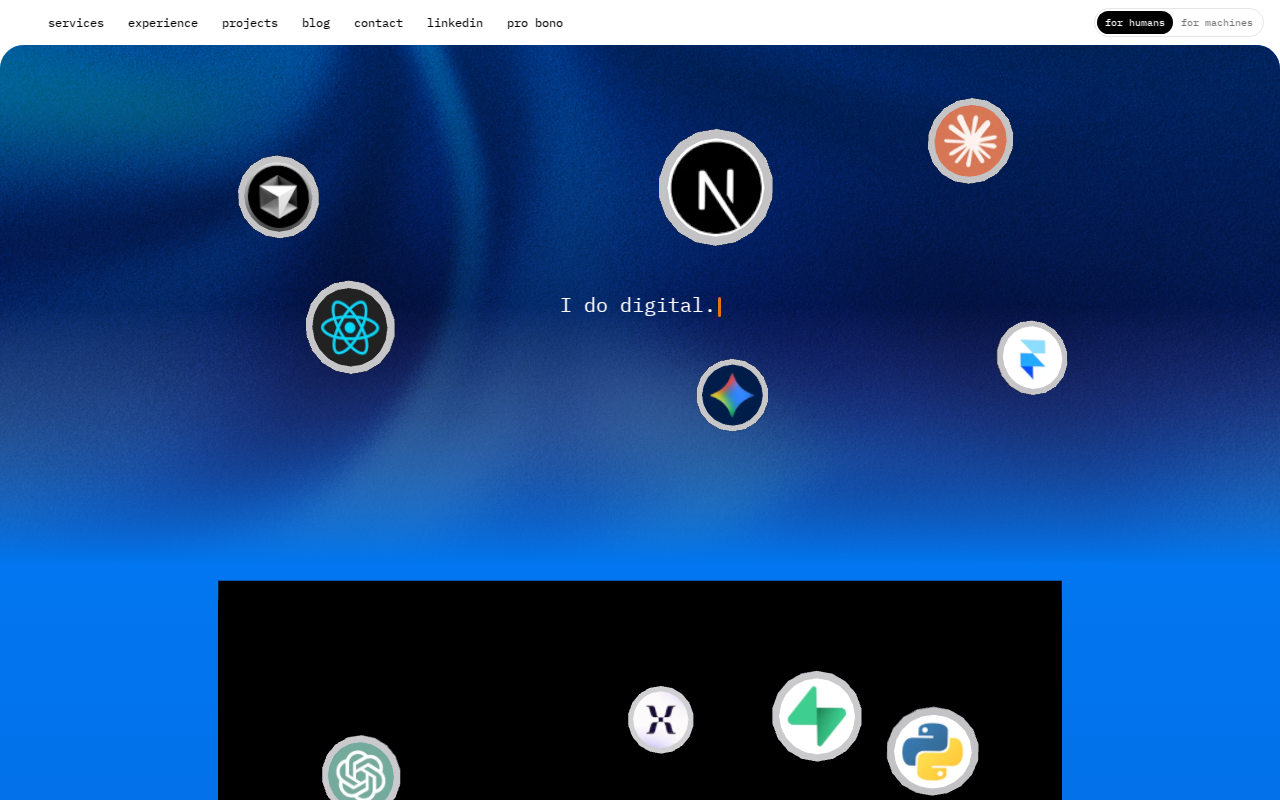
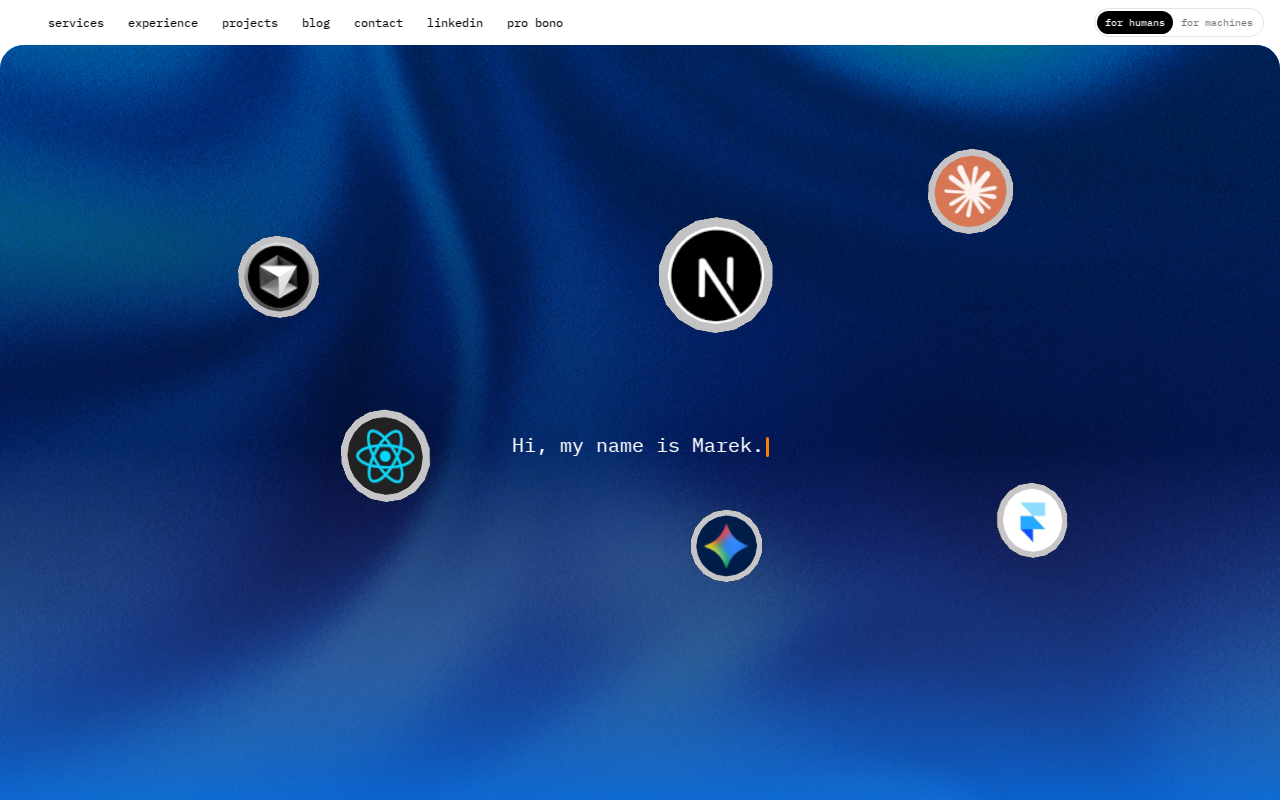
fix(hero): mouth-pack lip sync, true idle, stretch, hide mid typewriter
- Mouth pack (Claude/React/Gemini): travel sync + lip Y snap at MOUTH_TRAVEL_CENTER
- Stronger lip stretch/squash + foreshorten; remeasure during mouth window
- Hero min-h 100svh + capture-idle session for true idle artifact (box off-screen)
- Hide/pause typewriter on scroll to kill mid-frame orphan cursor fragments
- Inner-only inset box-shadow on services card (no exterior glow line)
- Refresh critic artifacts with layout-based capture + box-off-screen assert

diff --git a/components/sections/CircleFieldThree.tsx b/components/sections/CircleFieldThree.tsx
@@ -315,17 +315,32 @@ export default function CircleFieldThree({
         const settle = c.origin === "box" ? 1 : 1 + (1 - dockEase) * 0.05;
         const screenR = (CIRCLE_LOGOS[i].size * scale * sizeMul * settle) / 2;
 
-        // --- MOUTH: a chip straddling the box top dips behind the rim occluder
-        //     (which lives just behind z=0, so settled/hero chips never clip) and
-        //     squashes vertically as it squeezes through the lip. Position-based,
-        //     so it only affects chips actually crossing — never stuck behind. ---
-        // Wide straddle band so 2–3 chips can half-clip at the lip mid-handoff.
-        const dCross = pose.y - boxTopLocalY; // + = below the box top
+        const inMouth =
+          c.origin === "hero" &&
+          c.mouthPack &&
+          tv > 0.16 &&
+          tv < 0.62;
+
+        // --- depth-scaled scroll differential (near leads the dock, far lags) ---
+        const lead =
+          c.origin === "box" || inMouth
+            ? 0
+            : (nearF - 0.5) * 34 * gauss(tv, 0.5, 0.2);
+
+        // --- MOUTH: a chip straddling the box top dips behind the rim occluder ---
+        const lipOverlayY =
+          inMouth && c.mouthPack
+            ? boxTopLocalY + (c.mouthSlot ?? 0) * band.bandH * 0.032
+            : pose.y;
+        const anchorY = lipOverlayY + lead;
+        const dCross = anchorY - boxTopLocalY; // + = below the box top
+        const lipBand = inMouth ? 1.35 : 1.2;
         const straddle =
           c.origin === "hero"
-            ? sstep(-screenR * 1.15, -screenR * 0.08, dCross) *
-              (1 - sstep(screenR * 0.08, screenR * 1.15, dCross))
+            ? sstep(-screenR * lipBand, -screenR * 0.04, dCross) *
+              (1 - sstep(screenR * 0.04, screenR * lipBand, dCross))
             : 0;
+        const stretch = straddle * straddle * (3 - 2 * straddle);
 
         // Depth: sort offset kept >= 0 so nothing but a straddling chip is ever
         // behind the occluder; near tier sits in front for correct overlaps.
@@ -335,19 +350,16 @@ export default function CircleFieldThree({
         const zOrbit = c.origin === "hero" ? (1 - dockEase) * (zHero - zSort) : 0;
         let zc = zSort + zOrbit;
         zc += Math.sin(frameTime * 0.0004 * (0.55 + nearF) + c.phase) * 7 * nearF * idle;
-        zc -= 130 * straddle; // dip behind the rim
-
-        // --- depth-scaled scroll differential (near leads the dock, far lags) ---
-        const lead = c.origin === "box" ? 0 : (nearF - 0.5) * 34 * gauss(tv, 0.5, 0.2);
+        zc -= 130 * stretch; // dip behind the rim
 
         // --- screen anchor (overlay-local px -> world, y-up) + idle parallax ---
         const idleT = frameTime * (0.55 + nearF * 0.9); // far drifts slower
-        const parAmp = (0.45 + nearF) * 5.2 * idle;
+        const parAmp = inMouth ? 0 : (0.45 + nearF) * 5.2 * idle;
         const worldScreenX =
           pose.x + Math.sin(idleT * (c.fx ?? 0.0005) + (c.spinPhase ?? 0)) * parAmp;
         const worldScreenY =
           canvasH -
-          (pose.y +
+          (lipOverlayY +
             offY +
             lead +
             Math.cos(idleT * (c.fy ?? 0.0005) + (c.spinPhase ?? 0)) * parAmp * 0.7);
@@ -360,18 +372,20 @@ export default function CircleFieldThree({
 
         coin.group.visible = apEase > 0.01;
         coin.group.position.set(worldX, worldY, zc);
-        // Squash through the lip: pinch vertically, bulge slightly wide.
+        // Stretch through the lip: vertical squash, slight width bulge, z foreshorten.
+        const stretchGain = inMouth ? 1.2 : 1;
         coin.group.scale.set(
-          Math.max(0.0001, worldR * (1 + 0.14 * straddle)),
-          Math.max(0.0001, worldR * (1 - 0.34 * straddle)),
-          Math.max(0.0001, worldR),
+          Math.max(0.0001, worldR * (1 + 0.22 * stretch * stretchGain)),
+          Math.max(0.0001, worldR * (1 - 0.52 * stretch * stretchGain)),
+          Math.max(0.0001, worldR * (1 - 0.2 * stretch * stretchGain)),
         );
 
-        // --- tilt + depth-scaled idle micro-yaw + a gentle lean while docking ---
-        const tipIn = c.origin === "box" ? 0 : gauss(tv, 0.5, 0.24) * 0.26;
+        // --- tilt + depth-scaled idle micro-yaw + lip foreshorten lean ---
+        const tipIn = c.origin === "box" || inMouth ? 0 : gauss(tv, 0.5, 0.24) * 0.26;
         coin.group.rotation.x =
           (c.tiltX ?? 0) +
           tipIn +
+          stretch * 0.55 * stretchGain +
           Math.sin(idleT * 0.0006 + (c.spinPhase ?? 0)) * 0.05 * (0.4 + nearF) * idle;
         coin.group.rotation.y =
           (c.tiltY ?? 0) +
@@ -722,6 +736,8 @@ export default function CircleFieldThree({
         ease: "easeOut",
       });
     }
+    // Refresh landing band during the mouth window so lip straddles stay pixel-locked.
+    if (value > 0.12 && value < 0.68) remeasure();
     if (reducedRef.current) {
       if (visibleRef.current) renderStatic(true);
     } else if (visibleRef.current) {

diff --git a/components/sections/Hero.tsx b/components/sections/Hero.tsx
@@ -9,7 +9,7 @@ const TEXTS = [
   "I know some neat ops tricks I can share.",
   "Sometimes, I write code.",
   "Or, nowdays instruct agents.",
-  "I’ll do my best to make your company better.",
+  "I'll do my best to make your company better.",
   "I also like chess.",
   "If you wanna play.",
 ];
@@ -17,15 +17,44 @@ const TEXTS = [
 const TYPING_SPEED = 55;
 const ERASING_SPEED = 30;
 const HOLD_DURATION = 2500;
+/** Hide headline once the services mouth enters view — kills mid-scroll typewriter chrome. */
+const HEADLINE_HIDE_SCROLL_PX = 48;
+const CAPTURE_IDLE_KEY = "hero-capture-idle";
+
+function readCaptureIdle() {
+  if (typeof sessionStorage === "undefined") return false;
+  return sessionStorage.getItem(CAPTURE_IDLE_KEY) === "1";
+}
 
 export default function Hero() {
+  const [captureIdle] = useState(readCaptureIdle);
   const [index, setIndex] = useState(0);
-  const [text, setText] = useState("");
-  const [phase, setPhase] = useState<"typing" | "holding" | "erasing">(
-    "typing",
+  const [text, setText] = useState(() => (readCaptureIdle() ? TEXTS[0] : ""));
+  const [phase, setPhase] = useState<"typing" | "holding" | "erasing">(() =>
+    readCaptureIdle() ? "holding" : "typing",
   );
+  const [headlineVisible, setHeadlineVisible] = useState(true);
+  const [typingPaused, setTypingPaused] = useState(false);
 
   useEffect(() => {
+    const onScroll = () => {
+      const hide = window.scrollY > HEADLINE_HIDE_SCROLL_PX;
+      setHeadlineVisible(!hide);
+      setTypingPaused(hide);
+      if (hide) {
+        setText(TEXTS[0]);
+        setIndex(0);
+        setPhase("holding");
+      }
+    };
+    window.addEventListener("scroll", onScroll, { passive: true });
+    return () => window.removeEventListener("scroll", onScroll);
+  }, []);
+
+  useEffect(() => {
+    if (captureIdle) return;
+    if (typingPaused) return;
+
     const current = TEXTS[index];
 
     if (phase === "typing") {
@@ -56,12 +85,12 @@ export default function Hero() {
       setText(current.slice(0, text.length - 1));
     }, ERASING_SPEED);
     return () => clearTimeout(timer);
-  }, [text, phase, index]);
+  }, [text, phase, index, typingPaused, captureIdle]);
 
   return (
     <section
       id="hero"
-      className="relative flex h-[65vh] overflow-hidden rounded-t-3xl"
+      className="relative flex min-h-[100svh] overflow-hidden rounded-t-3xl"
     >
       <div
         aria-hidden
@@ -83,13 +112,19 @@ export default function Hero() {
           WebkitMaskImage: "linear-gradient(to bottom, black 50%, transparent 100%)",
         }}
       />
-      <div className="relative flex w-full items-center justify-center px-6">
-        <h2 className="mx-auto max-w-[16rem] text-balance text-center font-mono text-lg leading-snug text-white sm:max-w-xs sm:text-xl md:max-w-md md:text-xl">
+      <div className="relative flex w-full flex-1 items-center justify-center px-6">
+        <h2
+          className={`mx-auto max-w-[16rem] text-balance text-center font-mono text-lg leading-snug text-white transition-opacity duration-300 sm:max-w-xs sm:text-xl md:max-w-md md:text-xl ${
+            headlineVisible ? "opacity-100" : "pointer-events-none opacity-0"
+          }`}
+        >
           {text}
-          <span
-            className="ml-0.5 inline-block h-[1em] w-[3px] animate-pulse rounded-full align-middle"
-            style={{ backgroundColor: "#FF8008" }}
-          />
+          {headlineVisible ? (
+            <span
+              className="ml-0.5 inline-block h-[1em] w-[3px] animate-pulse rounded-full align-middle"
+              style={{ backgroundColor: "#FF8008" }}
+            />
+          ) : null}
         </h2>
       </div>
     </section>

diff --git a/components/sections/placeCircles.ts b/components/sections/placeCircles.ts
@@ -1,4 +1,5 @@
 import { clamp01, smoothstep } from "@/lib/math";
+import { MOUTH_TRAVEL_CENTER } from "./serviceReveal";
 import {
   boxBandFromMargin,
   pathEndpointLocal,
@@ -24,6 +25,10 @@ export type CircleModel = {
   tiltY?: number;
   /** Idle micro-yaw phase — 3D renderer only. */
   spinPhase?: number;
+  /** When true, travel is synced so this chip crosses the box lip at MOUTH_TRAVEL_CENTER. */
+  mouthPack?: boolean;
+  /** Small vertical stagger (-1..1) so 2–3 mouth chips half-clip simultaneously. */
+  mouthSlot?: number;
 };
 
 export type CirclePose = {
@@ -132,8 +137,28 @@ export function placeCircles({
       toPxY = bandTop + c.toY * bandH;
     }
 
-    let baseX = lerp(fromPxX, toPxX, p);
-    let baseY = lerp(fromPxY, toPxY, p);
+    let coinP = p;
+    const mouthBlend =
+      c.origin === "hero" && c.mouthPack
+        ? Math.exp(-0.5 * Math.pow((p - MOUTH_TRAVEL_CENTER) / 0.075, 2))
+        : 0;
+
+    if (c.origin === "hero" && c.mouthPack && mouthBlend > 0.02) {
+      const deltaY = toPxY - fromPxY;
+      if (Math.abs(deltaY) > 4) {
+        const lipTravel = clamp01((bandTop - fromPxY) / deltaY);
+        coinP = clamp01(p + (lipTravel - p) * Math.min(1, mouthBlend * 1.05));
+      }
+    }
+
+    let baseX = lerp(fromPxX, toPxX, coinP);
+    let baseY = lerp(fromPxY, toPxY, coinP);
+
+    // Snap mouth-pack chips to the lip together (2–3 simultaneous half-clips).
+    if (c.origin === "hero" && c.mouthPack && mouthBlend > 0.02) {
+      const lipY = bandTop + (c.mouthSlot ?? 0) * Math.max(24, bandH * 0.032);
+      baseY = lerp(baseY, lipY, Math.min(1, mouthBlend * 1.12));
+    }
 
     let isPathCircle = false;
 
@@ -163,8 +188,8 @@ export function placeCircles({
     // Padded clear zone around the hero headline: push hero coins out of an
     // elliptical hole around "Hi, my name is Marek" so they never sit on type.
     // Applies while the coin is still substantially in the hero (p small), and
-    // eases out as it docks so it doesn't fight the scrub.
-    if (c.origin === "hero" && p < 0.5) {
+    // eases out as it docks so it doesn't fight the scrub. Skip mouth-pack chips.
+    if (c.origin === "hero" && p < 0.5 && !c.mouthPack) {
       const zoneGain = 1 - smoothstep(p / 0.5);
       const textCx = heroW * 0.5;
       const textCy = isDesktop

diff --git a/components/sections/serviceReveal.ts b/components/sections/serviceReveal.ts
@@ -39,10 +39,13 @@ export function spreadMarginPx(progress: number, width: number): number {
 
 // Hero-circle travel, scrubbed across a WIDE window with smoothstep easing so
 // the hero→box handoff feels continuous (not a teleport). Logos begin gliding
-// as the box starts spreading (~0.26) and are fully gathered by ~0.55, hold
-// through the full-bleed section, then rise back out as the box narrows.
-export const CIRCLE_TRAVEL_BREAKPOINTS = [0, 0.26, 0.55, 0.8, 0.95, 1] as const;
+// as the box starts spreading (~0.28) and finish docking by ~0.58. The mouth
+// snapshot (2–3 chips straddling the lip) peaks near MOUTH_TRAVEL_CENTER.
+export const CIRCLE_TRAVEL_BREAKPOINTS = [0, 0.28, 0.58, 0.8, 0.95, 1] as const;
 export const CIRCLE_TRAVEL_VALUES = [0, 0, 1, 1, 0, 0] as const;
+
+/** Services scroll progress where the mouth snapshot is taken (artifact script). */
+export const MOUTH_SCROLL_CENTER = 0.39;
 
 // The scroll offset both Services and CircleField MUST pass to useScroll for the
 // breakpoints above to mean the same thing in both. Shared here so the whole
@@ -70,3 +73,10 @@ export function interpolateProgress(
 
   return values[last];
 }
+
+/** Circle travel (`placeCircles` `travel` arg) at MOUTH_SCROLL_CENTER — keep in sync. */
+export const MOUTH_TRAVEL_CENTER = interpolateProgress(
+  MOUTH_SCROLL_CENTER,
+  CIRCLE_TRAVEL_BREAKPOINTS,
+  CIRCLE_TRAVEL_VALUES,
+);

diff --git a/components/sections/Services.tsx b/components/sections/Services.tsx
@@ -63,10 +63,14 @@ export default function Services({
         style={{ marginLeft: marginX, marginRight: marginX, borderRadius }}
         className="relative aspect-[9/16] overflow-hidden bg-black md:aspect-video"
       >
-        {/* Soft inner top shade — inside the card only, no exterior glow line. */}
+        {/* Inner-only top volume — inset shadow, no exterior glow line at the lip. */}
         <div
           aria-hidden
-          className="pointer-events-none absolute inset-x-0 top-0 z-10 h-[32%] bg-linear-to-b from-black/55 via-black/20 to-transparent"
+          className="pointer-events-none absolute inset-0 z-10 rounded-[inherit]"
+          style={{
+            boxShadow:
+              "inset 0 52px 72px -36px rgba(0,0,0,0.62), inset 0 18px 28px -14px rgba(0,0,0,0.28)",
+          }}
         />
         <motion.p
           style={{ opacity: textOpacity }}

diff --git a/components/sections/circleFieldModel.ts b/components/sections/circleFieldModel.ts
@@ -180,6 +180,17 @@ export function makeCircles(): CircleModel[] {
   circles[PATH_CIRCLE_CURSOR].pathDest = "start";
   circles[PATH_CIRCLE_NEXTJS].pathDest = "end";
 
+  // Mouth pack: three hero chips cross the card lip together (design critic still).
+  const mouthPack = [
+    { index: BOX_COUNT + 2, slot: -1 }, // claude
+    { index: BOX_COUNT + 3, slot: 0 }, // react
+    { index: BOX_COUNT + 4, slot: 1 }, // gemini
+  ];
+  for (const { index, slot } of mouthPack) {
+    circles[index].mouthPack = true;
+    circles[index].mouthSlot = slot;
+  }
+
   return circles;
 }
 
